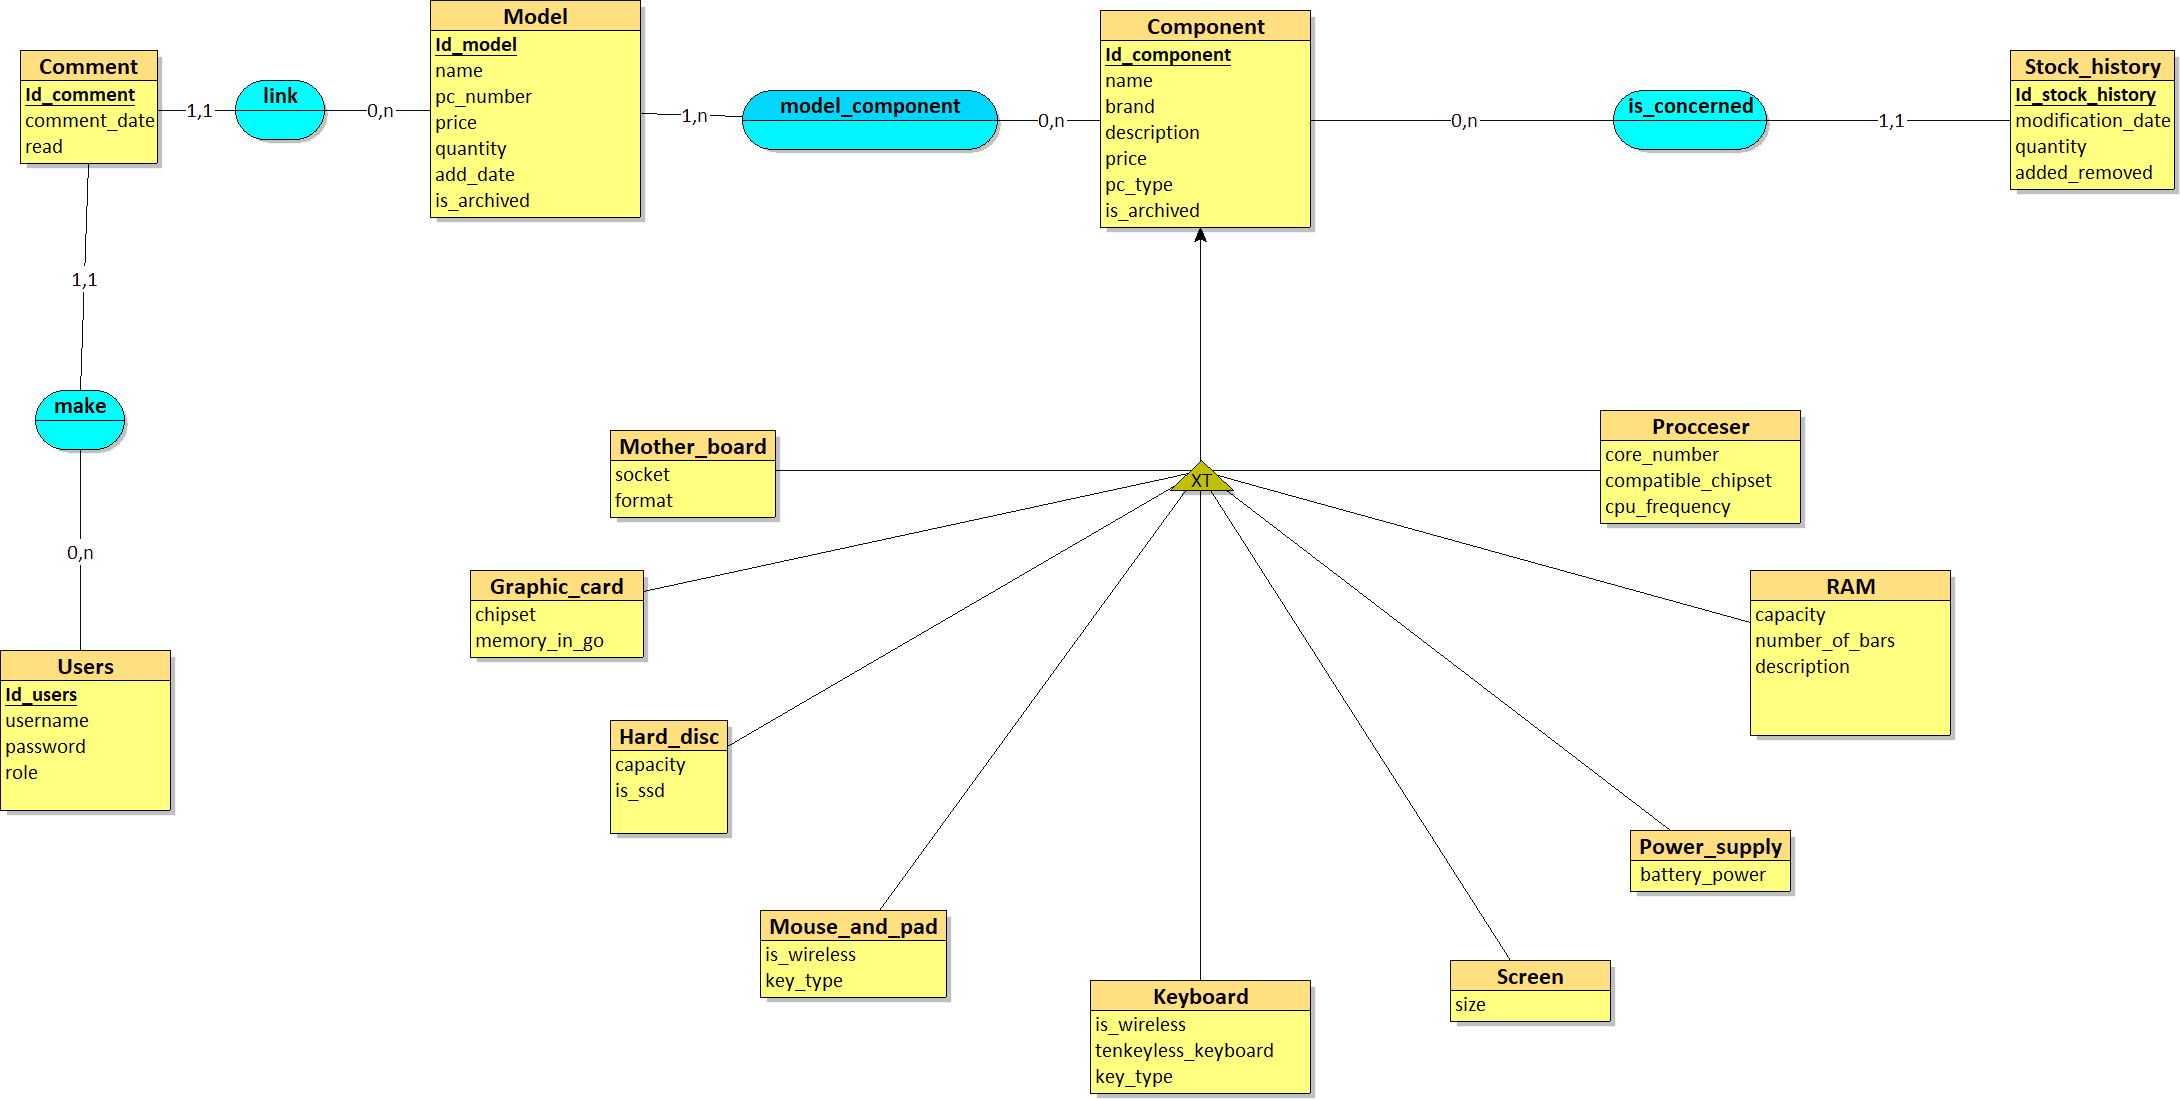
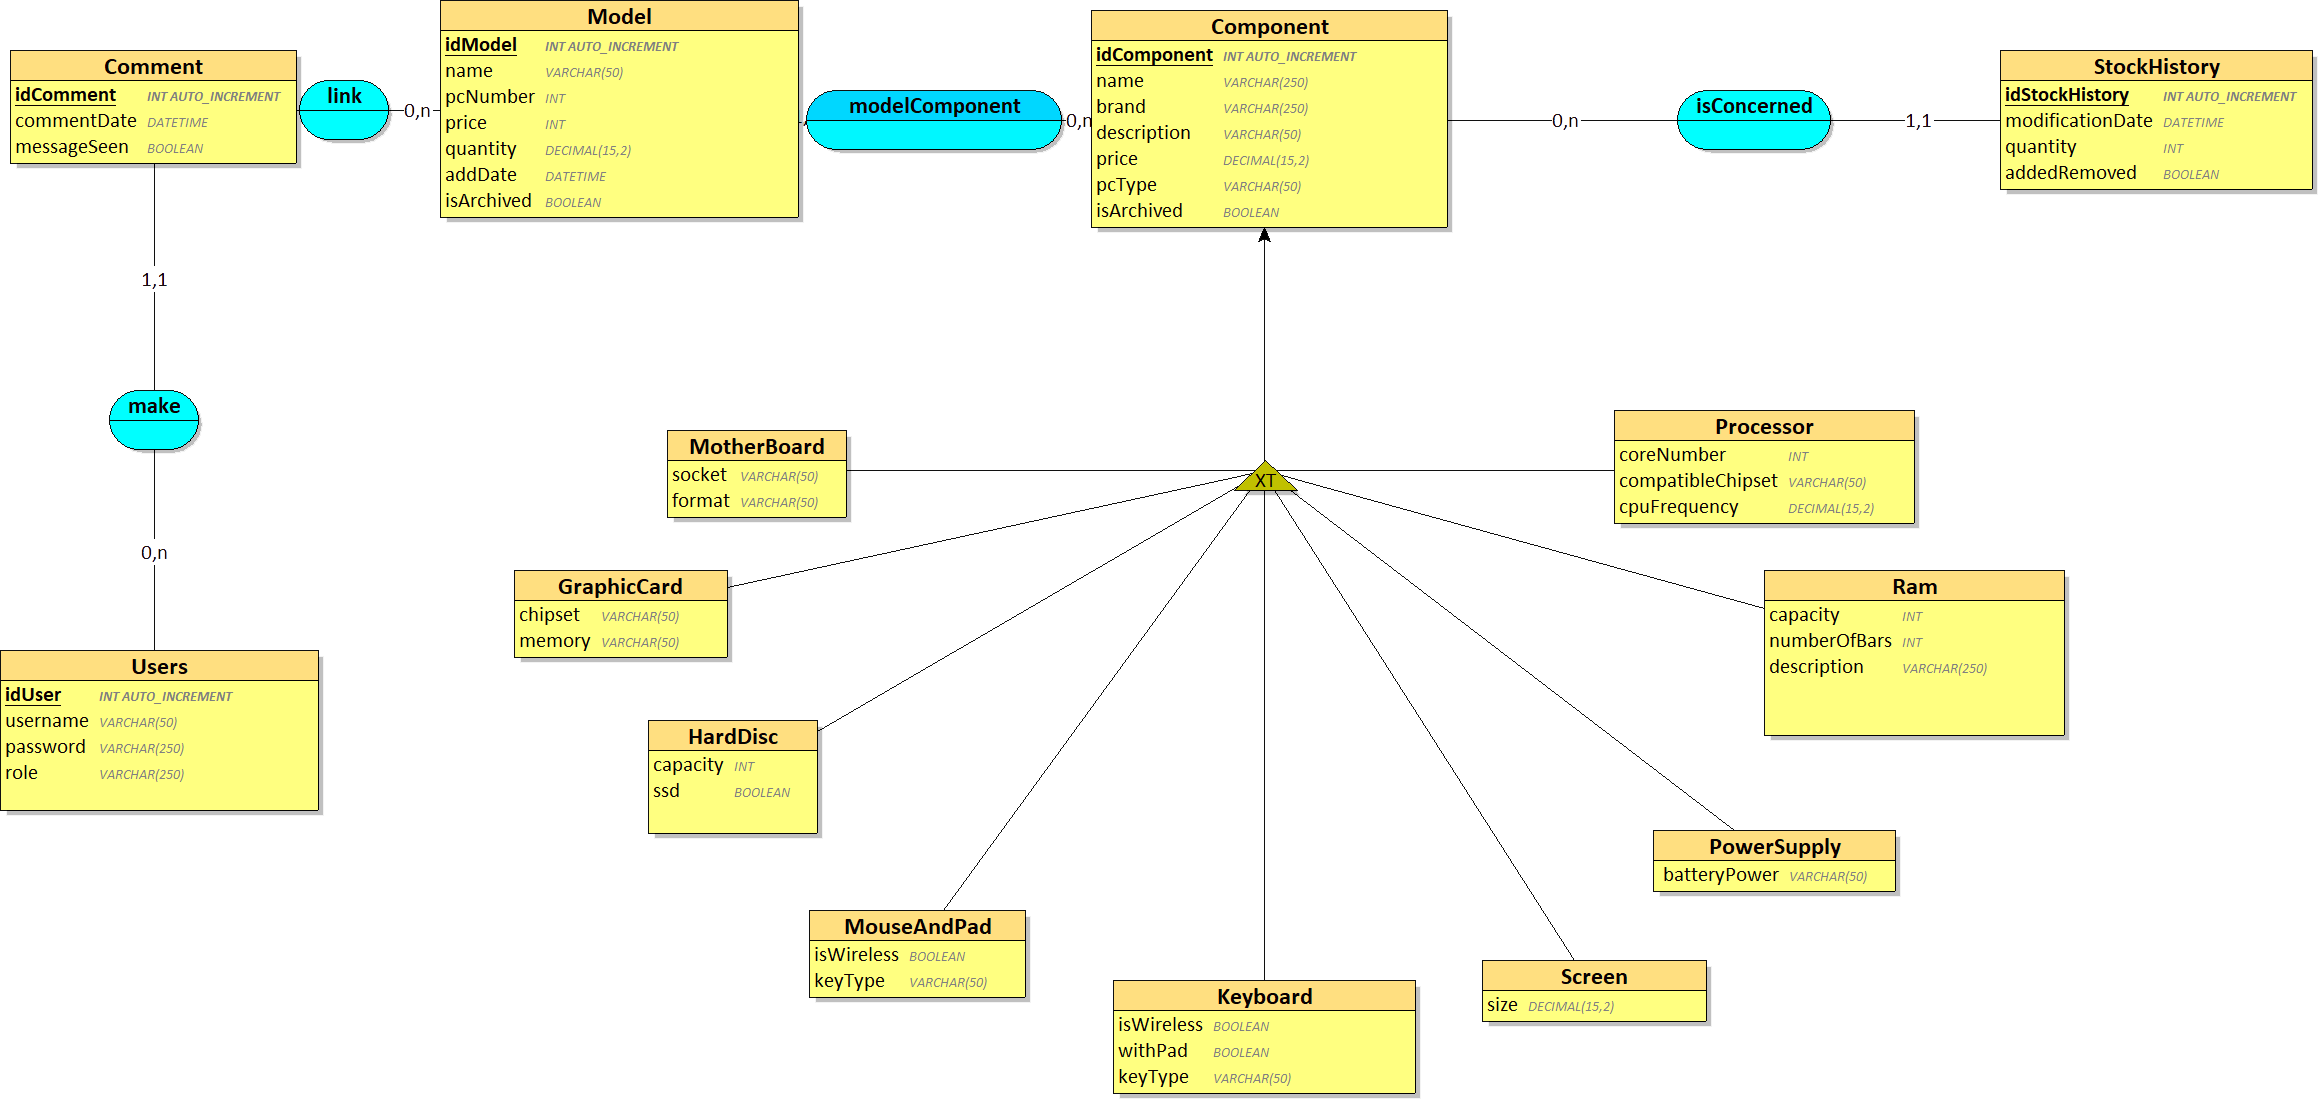
camelCase et png modifié

diff --git a/src/Model/MouseAndPad.php b/src/Model/MouseAndPad.php
@@ -1,0 +1,29 @@
+<?php 
+namespace Model; // afin que l'autoload puisse retrouver notre classe. Model correspond au nom du dossier
+
+class Mouse_and_pad extends Component
+{
+    protected bool $isWireless;
+    protected string $keyType;
+
+//Méthodes (Set et Get)
+
+	public function getIsWireless(): bool {
+		return $this->isWireless;
+	}
+	
+	public function setIsWireless(bool $isWireless): self {
+		$this->isWireless = $isWireless;
+		return $this;
+	}
+
+	public function getKeyType(): string {
+		return $this->keyType;
+	}
+	
+	public function setKeyType(string $keyType): self {
+		$this->keyType = $keyType;
+		return $this;
+	}
+}
+

diff --git a/src/Model/GraphicCard.php b/src/Model/GraphicCard.php
@@ -1,0 +1,29 @@
+<?php 
+namespace Model; // afin que l'autoload puisse retrouver notre classe. Model correspond au nom du dossier
+
+class GraphicCard extends Component
+{
+    protected string $chipset;
+    protected string $memory;
+
+//Méthodes (Set et Get)
+
+	public function getChipset(): string {
+		return $this->chipset;
+	}
+	
+	public function setChipset(string $chipset): self {
+		$this->chipset = $chipset;
+		return $this;
+	}
+
+	public function getMemory(): string {
+		return $this->memory;
+	}
+	
+	public function setMemory(string $memory): self {
+		$this->memory = $memory;
+		return $this;
+	}
+}
+

diff --git a/src/Model/HardDisc.php b/src/Model/HardDisc.php
@@ -1,0 +1,28 @@
+<?php 
+namespace Model; // afin que l'autoload puisse retrouver notre classe. Model correspond au nom du dossier
+
+class Hard_disc extends Component
+{
+    protected int $capacity;
+    protected bool $isSsd;
+
+	public function getCapacity(): int {
+		return $this->capacity;
+	}
+	
+//Méthodes (Set et Get)
+
+	public function setCapacity(int $capacity): self {
+		$this->capacity = $capacity;
+		return $this;
+	}
+
+	public function getIsSsd(): bool {
+		return $this->isSsd;
+	}
+	
+	public function setIsSsd(bool $isSsd): self {
+		$this->isSsd = $isSsd;
+		return $this;
+	}
+}
